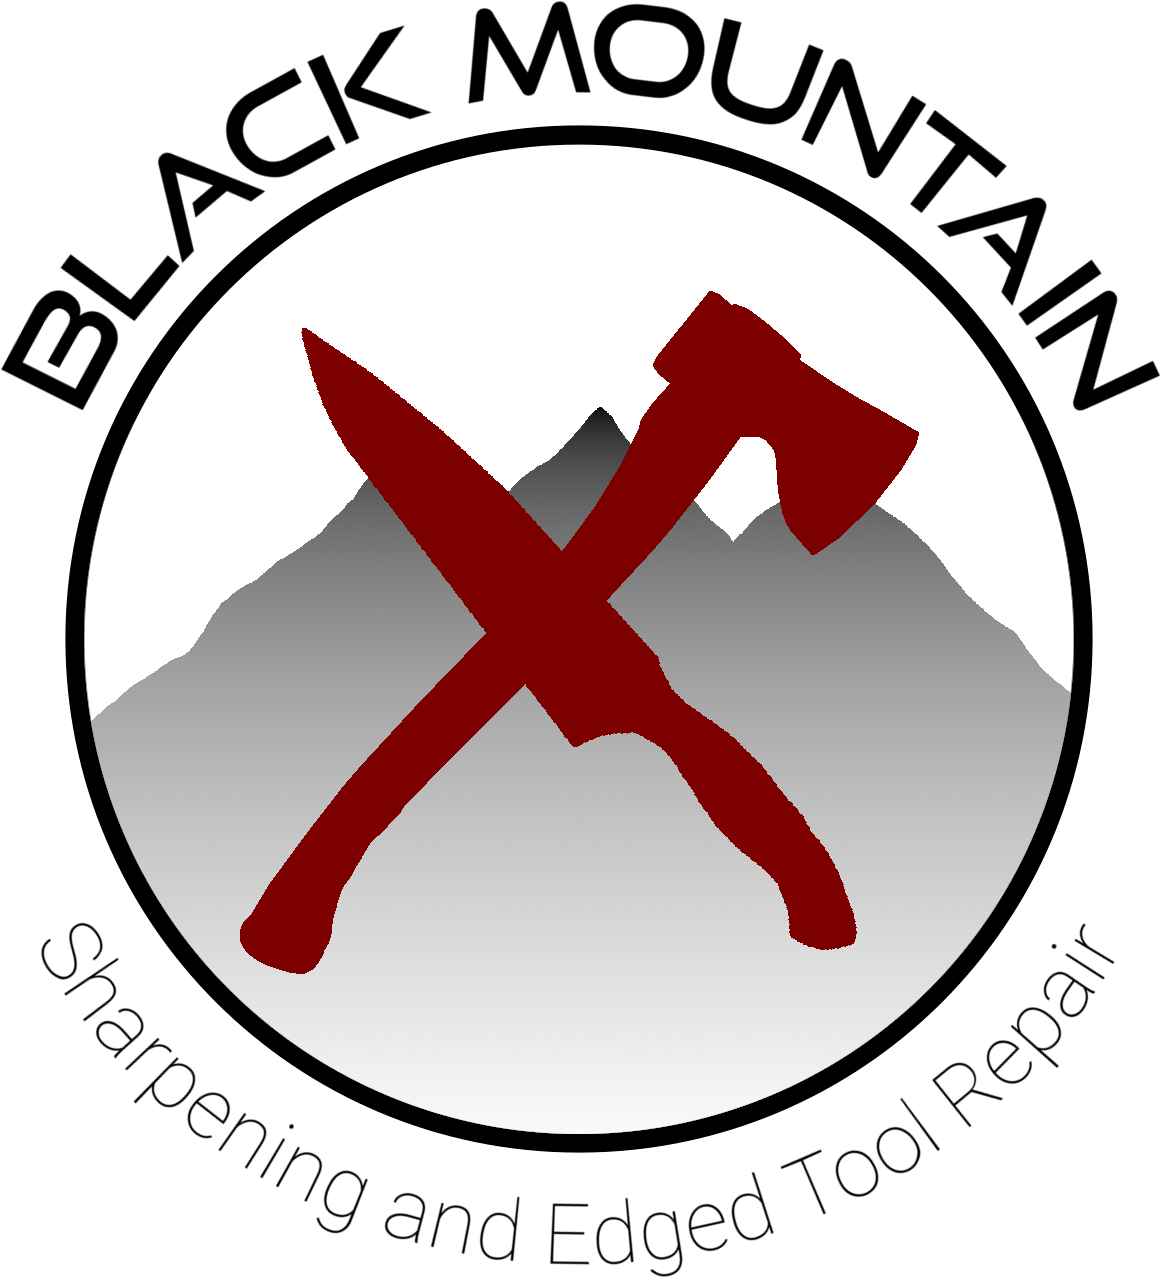
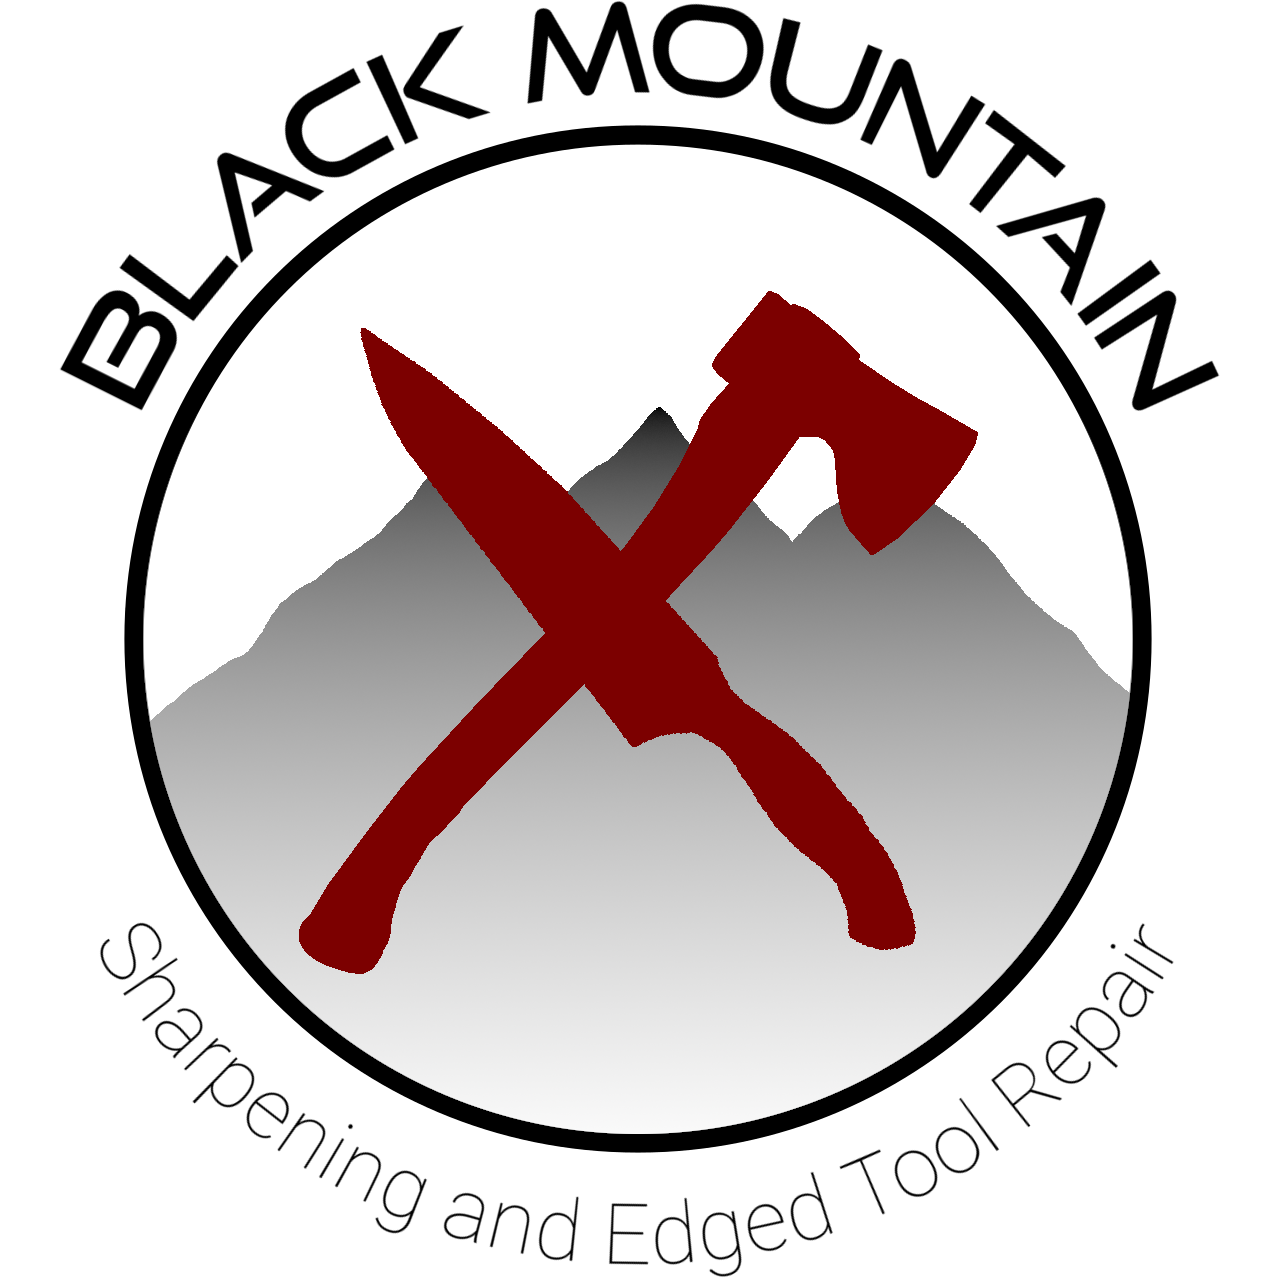
yeet

diff --git a/index.html b/index.html
@@ -19,7 +19,7 @@
 <body>
     <div class="sitebody">
     <header>
-        <img src="/images/icon.png" alt="logo" style="float:left;width:300px;height:300px;">
+        <img src="/images/icon.png" alt="logo" style="float:left;width:200px;height:200px;">
         <h1>Black Mountain Sharpening and Edged Tool Repair</h1>
         <div id="linkos">
             <button class="btn default" onClick="window.location.href = 'https://black-mountain-saetr.github.io/'">Home</button>
